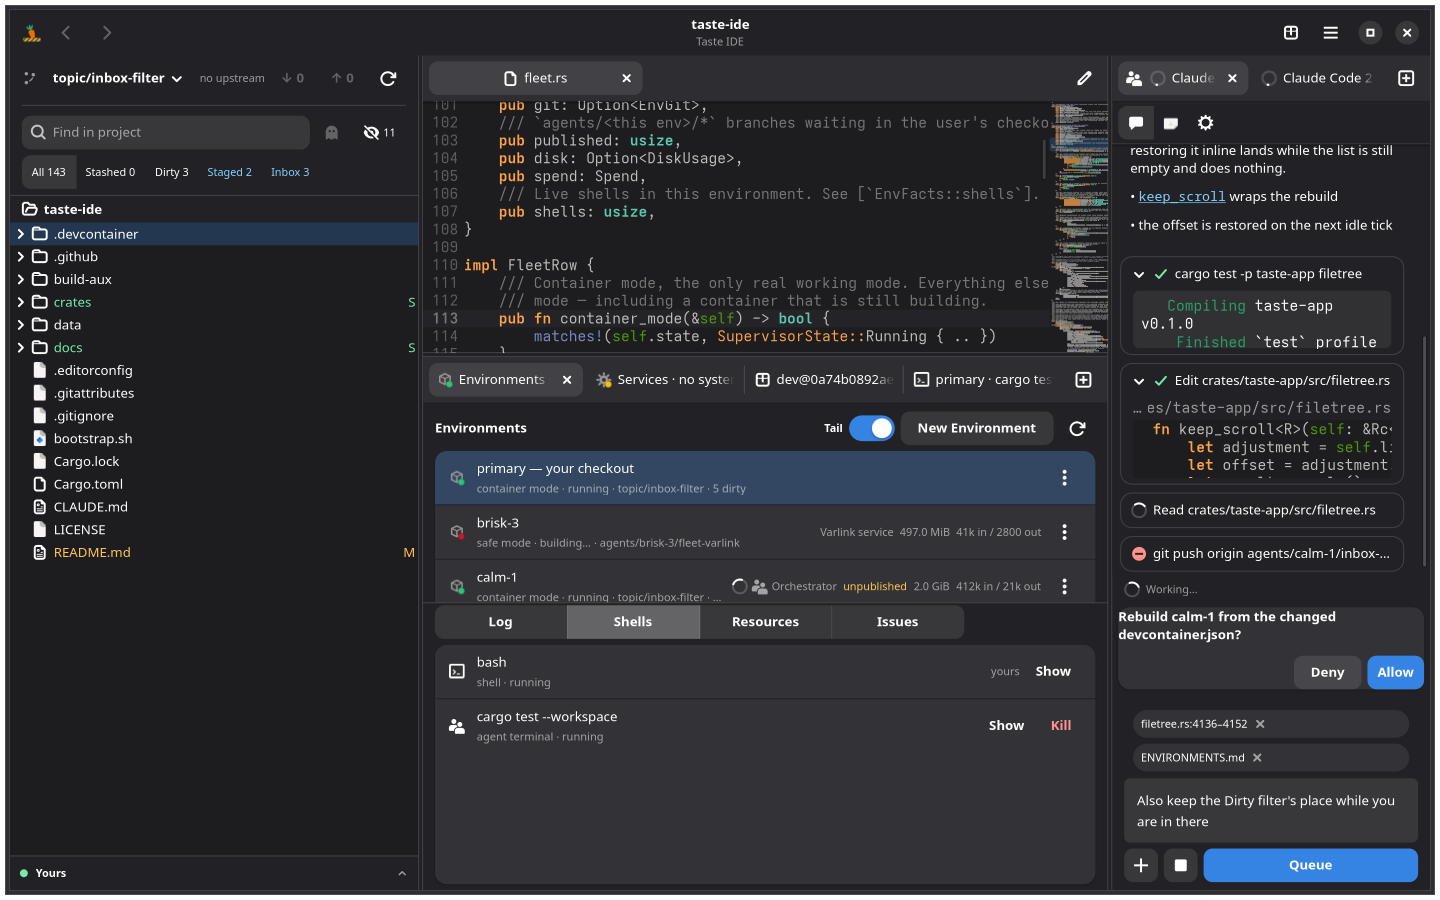
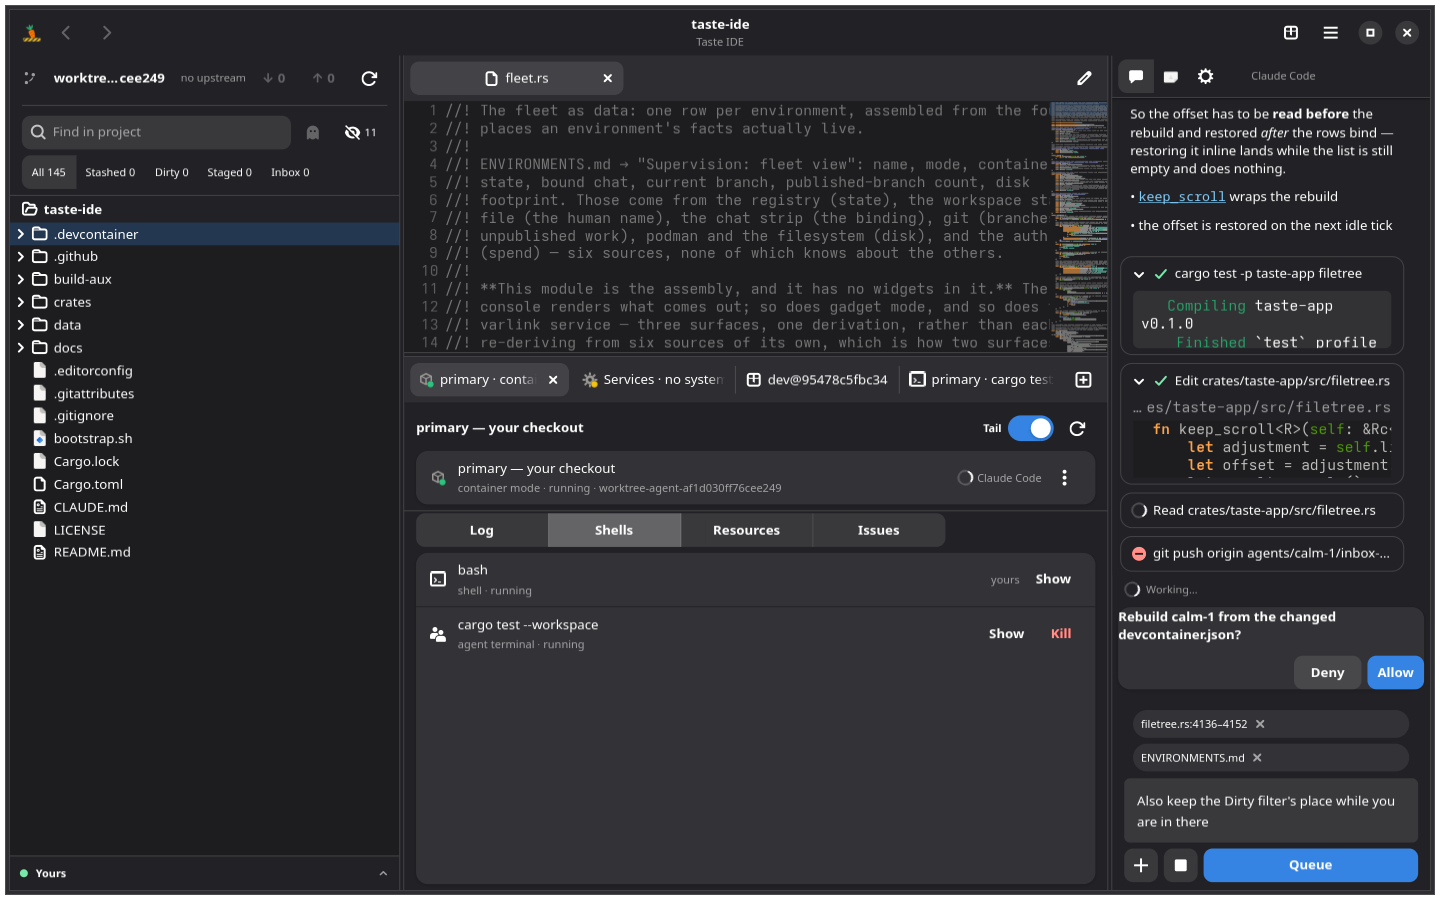
README: the fleet is the panel's switcher, and the shots show it
hero.png and the fleet paragraph still advertised two surfaces this pass
removed: the chat tab strip across the top of the chat pane, and the
console's list of every environment. Both shots are retaken, and the
paragraph that said "a workspace is a fleet" now points at the surface
that actually shows one — the switcher under the file tree — because
that is where moving between environments happens.

fleet.png goes with the list it was a picture of. The watching paragraph
is rewritten to lead with the principle rather than with the tree's
locks: selecting an environment makes every pane its, and read-only is
what that means for someone else's checkout.

shoot.sh grew a pane argument, since the views that are about one pane
never shoot the window at all.

diff --git a/README.md b/README.md
@@ -14,32 +14,38 @@ The design and its non-negotiables: [docs/ARCHITECTURE.md](docs/ARCHITECTURE.md)
 
 ![The taste-ide window, dark: a file tree on the left showing the taste-ide
 repository with git status markers and Dirty/Staged/Inbox filters, an
-environment strip reading "Yours" pinned at its foot, a Rust source file open
-in the editor with a minimap, the console below showing the Environments
-fleet and its live shell roster, and an agent chat on the right mid-turn —
+environment panel reading "Yours" pinned at its foot, a Rust source file open
+in the editor with a minimap, the console below showing that environment's
+detail and its live shell roster, and an agent chat on the right mid-turn —
 streamed prose, a shell tool card, a diff card, and a permission prompt
 asking to rebuild an environment.](docs/screenshots/hero.png)
 
 ## What it looks like
 
 A workspace is a fleet, not a session: any number of named environments,
-each a git clone with its own devcontainer, agent, disk footprint and token
-spend.
+each a git clone with its own devcontainer, one chat, disk footprint and
+token spend. The panel pinned under the file tree is where you move between
+them — and it is the app's only top-level control, because every other pane
+shows the selected environment's world.
 
-![The console's Environments tab listing four rows: the primary checkout
-running with five dirty files, brisk-3 in safe mode building, calm-1 running
-with an orchestrator marker and a busy spinner, and wry-4 in safe mode
-stopped — each with its branch, disk size and token
-counts.](docs/screenshots/fleet.png)
+![The environment switcher, opened from the panel under the file tree: rows
+for "Yours" (running, ticked as current), brisk-3 (building), calm-1
+(running, with a busy spinner and an unpublished-work dot) and wry-4
+(stopped), over a "New environment"
+row.](docs/screenshots/envstrip.png)
 
-Open an environment and watch its agent work — read, never edit. The strip
-at the foot of the tree names where the panes are aimed and tints itself
-while you are away from your own checkout; every row carries a lock, and
-files open as read-only tabs badged with the environment's name.
+Select an environment and every pane becomes its: its files, its git state,
+its editor tabs, its console, its chat. Non-primary environments are
+read-only to you — watch the agent work without racing it. The panel names
+where you are and tints itself while you are away from your own checkout;
+every tree row carries a lock, and files open as read-only tabs badged with
+the environment's name.
 
-![The file tree in watching mode: every row padlocked, the environment strip
-at its foot tinted purple and reading "calm-1" with a lock, and the editor
-tab labelled "filetree.rs · calm-1".](docs/screenshots/watching.png)
+![The whole window aimed at one environment: every tree row padlocked, the
+environment panel at its foot tinted purple and reading "calm-1" with a
+lock, the editor tab labelled "filetree.rs · calm-1", the console showing
+"Environment calm-1" and its agent terminal, and the chat headed "Claude
+Code · calm-1".](docs/screenshots/watching.png)
 
 Agents publish branches; they never push. Published work lands in a review
 inbox beside Dirty and Staged, and opens as a diff.
